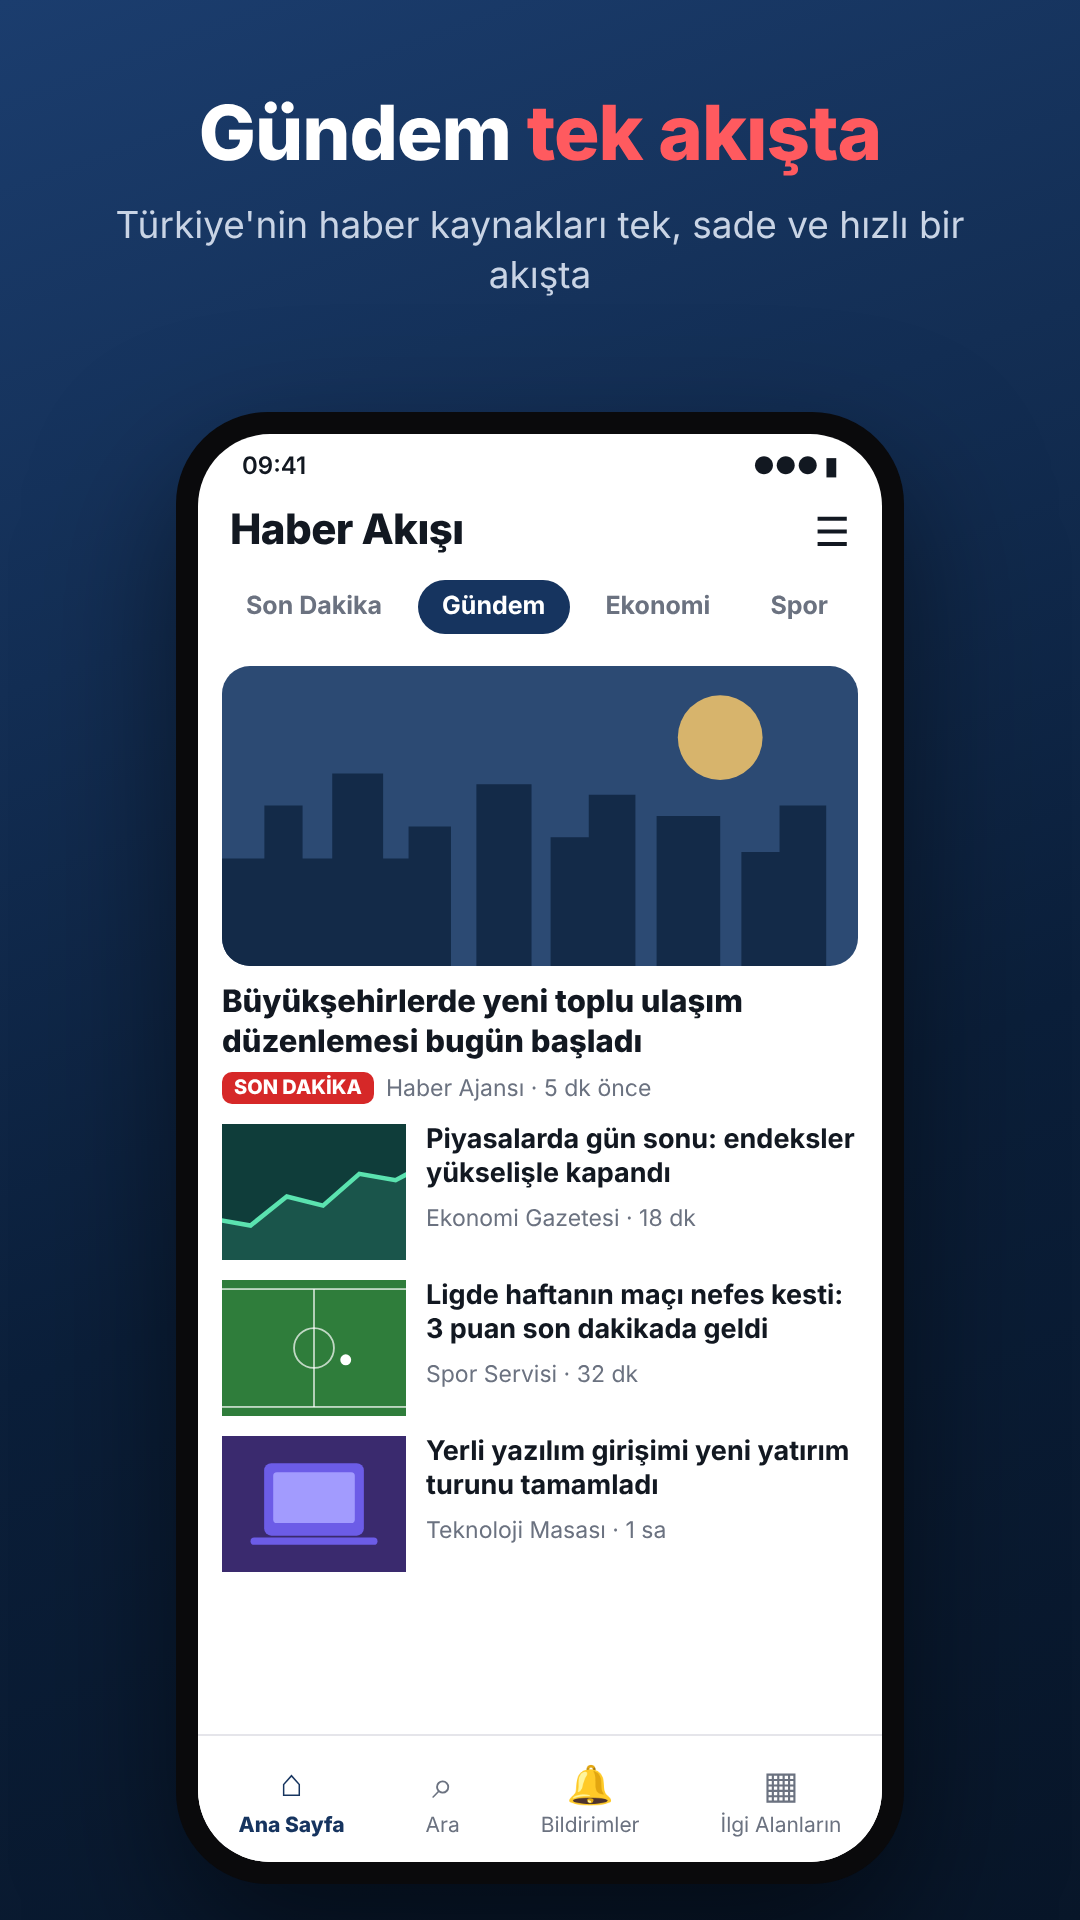
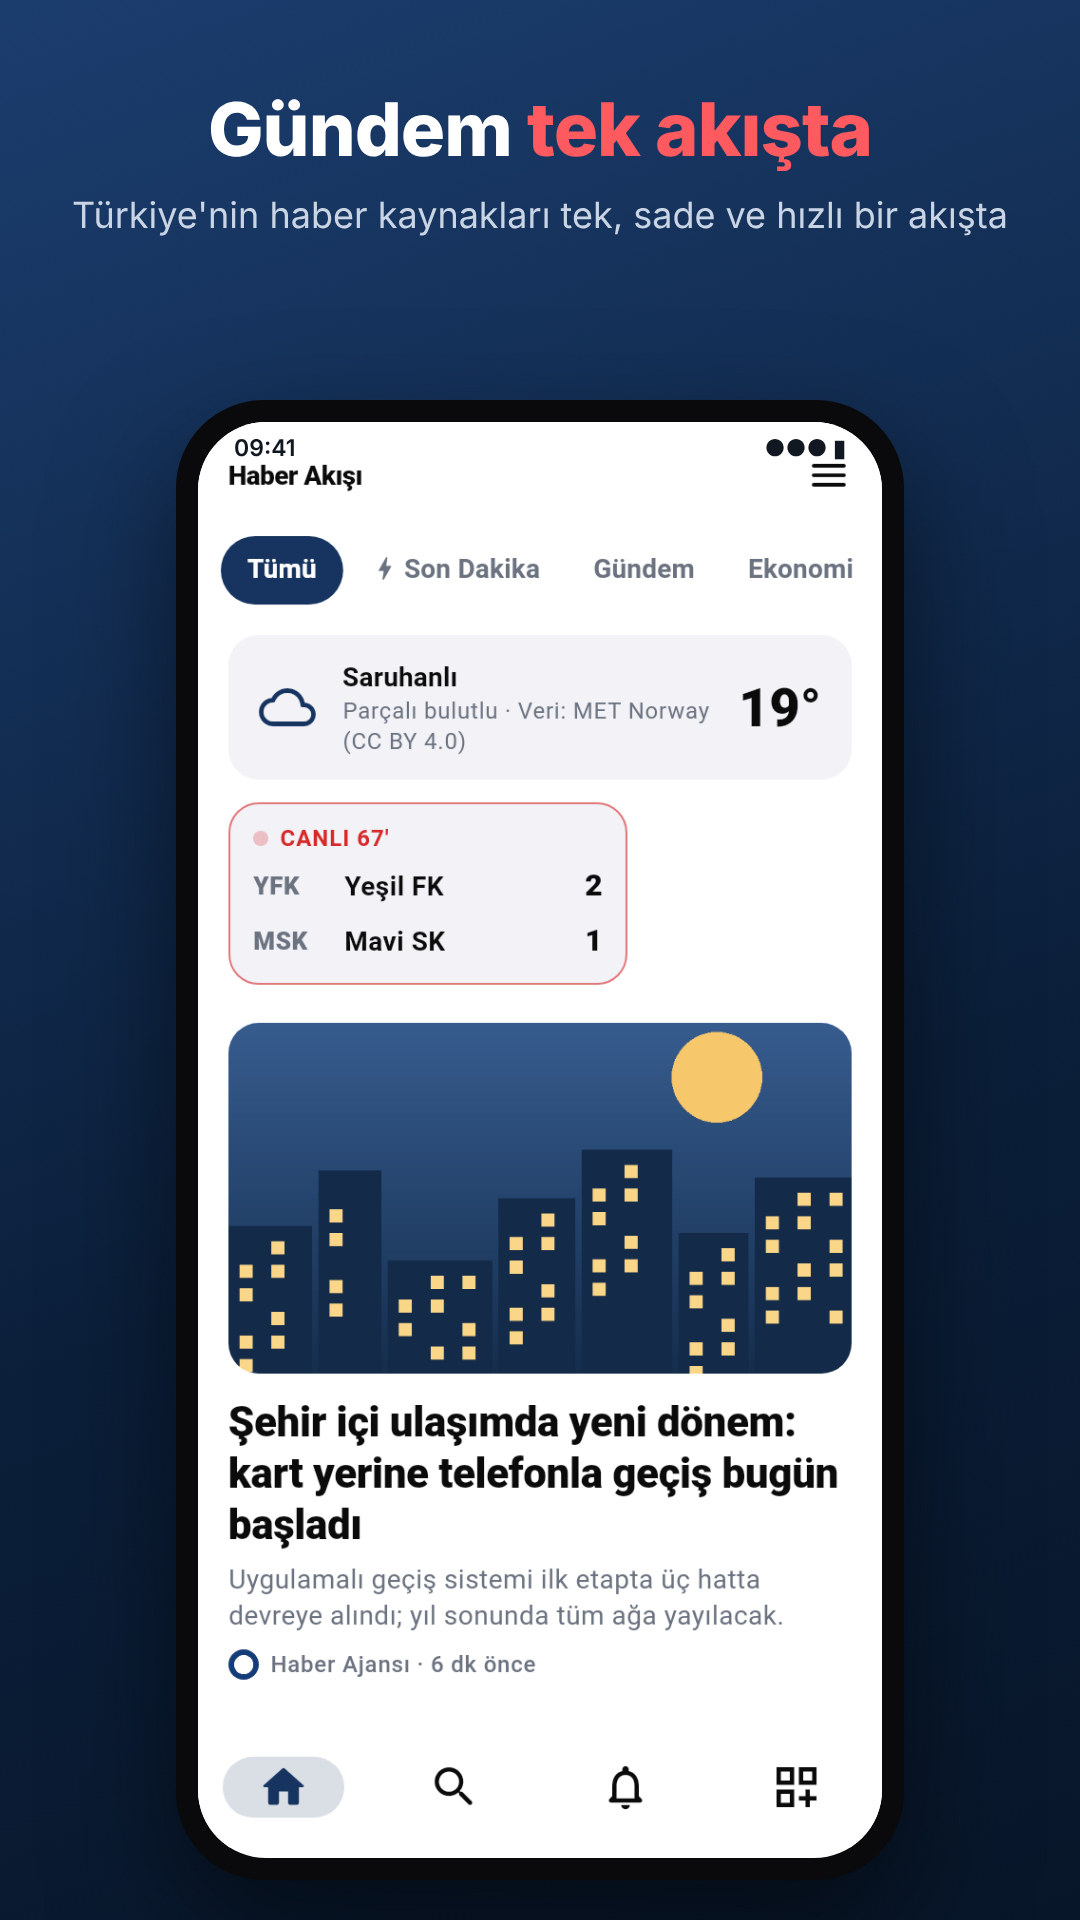
Play Store tanıtım görselleri uygulamanın gerçek ekranlarından üretildi (7 adet, 1080x1920)
Claude-Session: https://claude.ai/code/session_01Q1LBDkPx3yja1bEy3kGg36

diff --git a/.claude/skills/flutter-firebase-app/SKILL.md b/.claude/skills/flutter-firebase-app/SKILL.md
@@ -338,3 +338,13 @@ description: Flutter/FlutterFlow + Firebase (Firestore, Cloud Functions) uygulam
 - YUKLEME_REHBERI.md: uygulama oluşturma, Play App Signing (Google anahtarı) + yükleme anahtarı SHA-256, Uygulama içeriği formları (gizlilik URL, erişim, reklam, IARC, hedef kitle 18+, haber uygulaması + künye, reklam kimliği), Veri güvenliği tablosu (yaklaşık konum, kilitlenme/teşhis, cihaz kimlikleri + uygulama etkileşimleri AdMob ile paylaşılır), kapalı test (Google Grubu, 12 kişi × 14 gün, test kullanıcısı mesajı), üretim öncesi liste (gerçek AdMob, app-ads.txt).
 - AAB: pubspec sürüm kodu test APK'larından ayrı (1.0.0+100); doğrulama: keytool -printcert -jarfile app.aab + build/app/intermediates/merged_manifest/release/.../AndroidManifest.xml (package, versionCode, targetSdk). Play imzası sonrası "uygulama imzalama anahtarı" SHA-256'yı Firebase'e ekle (App Check/Play Integrity).
 - Tanıtım görselleri (telefon ekran görüntüsü yuvası, 1080×1920 RGB): HTML+CSS telefon çerçevesi + üst başlık (kırmızı vurgu kelime), Playwright 540×960 @2x. Telif/kişilik hakkı için gerçek haber fotoğrafı, yayıncı ve futbolcu adı KULLANMA (temsili SVG görsel, uydurma adlar). Telefon çerçevesi tuval içinde kalmalı (alt menü kesilmesin); görseller uygulamanın gerçek davranışıyla çelişmemeli (ör. ayrı gol kartı gösterme). Gerçek ekran görüntüleri gelince aynı çerçeveye yerleştir. Kaynak: docs/play-store/tanitim-gorselleri/olustur.js
+
+## 25. Mağaza ekran görüntülerini UYGULAMANIN KENDİSİNDEN üretme (çizim değil) ⭐
+Gerçek widget'ları `flutter test` içinde render edip PNG yaz (flutter_app/tool/promo/capture.dart örnek):
+- Veri: `fake_cloud_firestore` + `NewsRepository(firestore: fake)`; ayarlar `SharedPreferences.setMockInitialValues`.
+- Font: test ortamı kutu font kullanır → Flutter SDK'dan `FontLoader` ile Roboto + MaterialIcons yükle (`<flutter>/bin/cache/artifacts/material_fonts`, `Platform.resolvedExecutable`'ın 4 üst klasörü). Emoji (NotoColorEmoji/CBDT) yüklenemiyor → örnek veriden emojileri çıkar.
+- Görsel: uygulamanın `CachedNetworkImage` önbellek yöneticisini (`AppStorage.images`) `implements BaseCacheManager` + `noSuchMethod` bir sahteyle değiştir; `getFileStream` yerel dosyayı `FileInfo(const LocalFileSystem().file(path), FileSource.Cache, …)` olarak döndürsün (`package:file`). Görselin görünmesi için gerçek I/O ile kareleri DÖNÜŞÜMLÜ ilerlet: `runAsync(80ms)` + `pump(100ms)` × ~12.
+- Yakalama: `RepaintBoundary` + GlobalKey, `tester.view.physicalSize/devicePixelRatio`, `boundary.toImage(pixelRatio:)`. **dpr 2 kullan ve `debugDisableShadows = true` bırak**: GPU'suz ortamda 3x + gölge bulanıklığı piksele dökmeyi dakikalara çıkarır.
+- ⚠ Her testin KAPANIŞI (widget ağacının sökülmesi) bu ortamda dakikalarca sürüyor → her ekranı AYRI işlemde yakala (`PROMO_ONLY` env) ve dosya yazılır yazılmaz `exit(0)`. `testWidgets` gövdesi sahte zaman bölgesindedir: `Future.delayed` ASLA dönmez, `exit()`'ten önce bekleme koyma.
+- Eklentiler: geolocator gibi düz MethodChannel'lar `setMockMethodCallHandler` ile taklit edilir; firebase_core artık pigeon kullandığı için taklidi zor → çağrıyı uygulama kodunda try/catch ile sağlamlaştır (gerçek cihazda da faydalı).
+- Sonra HTML/Playwright ile telefon çerçevesine yerleştir (1080×1920 = 9:16; Play 16:9–9:16 arası ister, 1080×2250 ham ekranı doğrudan yükleme).

diff --git a/news-aggregator/docs/play-store/tanitim-gorselleri/BENIOKU.md b/news-aggregator/docs/play-store/tanitim-gorselleri/BENIOKU.md
@@ -1,0 +1,22 @@
+# Tanıtım görselleri (Play Store)
+
+`0*.png` — Play Console → Ana mağaza girişi → **Telefon ekran görüntüleri** (1080×1920, 9:16).
+`ekranlar/` — uygulamadan yakalanan ham ekranlar (720×1500); çerçevesiz hâlleri.
+
+## Nasıl üretilir
+Ekranlar, uygulamanın **gerçek widget'ları** sahte Firestore verisiyle çalıştırılarak yakalanır
+(`flutter_app/tool/promo/capture.dart`), sonra telefon çerçevesine yerleştirilir.
+
+```bash
+cd flutter_app
+PROMO_OUT=$PWD/../docs/play-store/tanitim-gorselleri/ekranlar \
+PROMO_IMAGES=/yol/images.json tool/promo/yakala.sh      # 7 ekranı yakalar
+cd ../docs/play-store/tanitim-gorselleri
+node olustur.js ekranlar .                               # çerçeve + başlık
+```
+
+`PROMO_IMAGES`: haber görselleri için `{"https://gorsel.local/x.jpg": "/yerel/yol.png"}` eşlemesi.
+
+## İçerik kuralı
+Gerçek haber fotoğrafı, yayıncı adı, takım ve oyuncu adı **kullanılmaz** (telif ve kişilik hakkı):
+örnek veriler temsilidir (Haber Ajansı, Yeşil FK, A. Yılmaz…).
